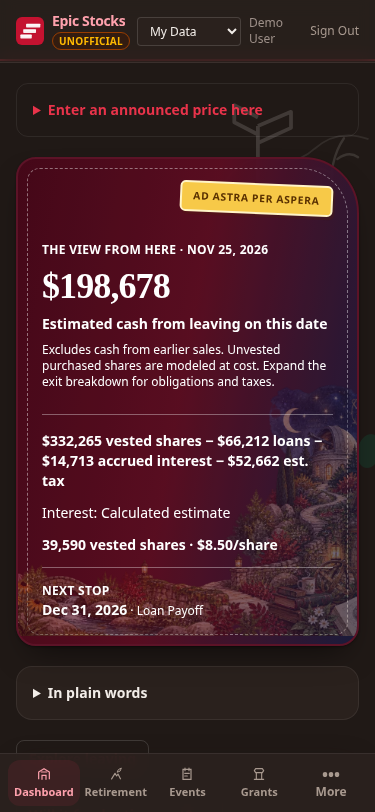
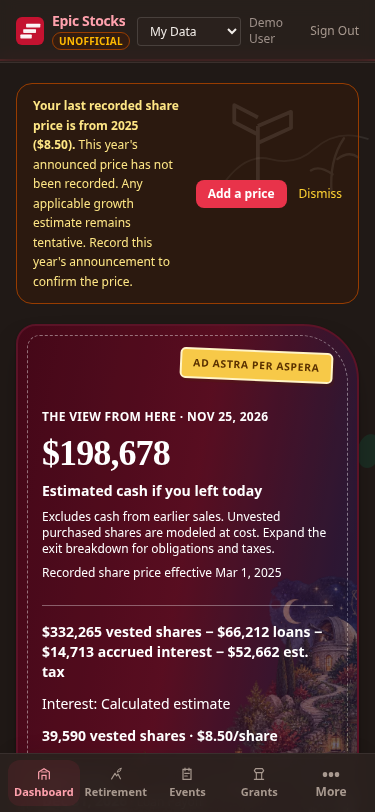
Keep dated debt and fallback values visible on dashboard

diff --git a/frontend/src/app/pages/Dashboard.tsx b/frontend/src/app/pages/Dashboard.tsx
@@ -372,7 +372,9 @@ export default function Dashboard() {
   const hasPrice = cv != null && cv.current_price !== null
   const hasPastRecords = events?.some(e => e.event_type !== 'Share Price' && e.date < `${today.slice(0, 4)}-01-01`)
   const totalValue = cv?.total_stock_value ?? null
+  const outstandingPrincipal = snapshot?.outstanding_loan_balance ?? cv?.total_loan_principal ?? 0
   const datedExit = exitPreview && exitPreview !== 'loading' && exitPreview.date === cardDate ? exitPreview : null
+  const showExitFigure = showExitPreview && (datedExit !== null || exitPreview === 'loading')
 
   return (
     <div className="campus-dashboard space-y-5 sm:space-y-6">
@@ -405,10 +407,10 @@ export default function Dashboard() {
             <div>
               <Eyebrow className="text-white">The view from here · {fmtFullDate(cardDate)}</Eyebrow>
               <p className="mt-2 font-serif text-4xl font-semibold tabular-nums tracking-tight sm:text-6xl">
-                {!hasPrice ? `${fmtNum(cv.total_shares)} shares` : showExitPreview ? (datedExit?.liquidation_net_cash == null ? '—' : fmt$(datedExit.liquidation_net_cash)) : (totalValue === null ? '—' : fmt$(totalValue))}
+                {!hasPrice ? `${fmtNum(cv.total_shares)} shares` : showExitFigure ? (datedExit?.liquidation_net_cash == null ? '—' : fmt$(datedExit.liquidation_net_cash)) : (totalValue === null ? '—' : fmt$(totalValue))}
               </p>
-              <p className="mt-2 text-sm font-semibold text-white">{!hasPrice ? 'Vested shares' : showExitPreview ? exitCashLabel(cardDate === today) : stockValueLabel}</p>
-              {hasPrice && showExitPreview && <p className="mt-2 text-xs text-white">{exitPreview === 'loading' ? 'Calculating exit…' : datedExit ? 'Excludes cash from earlier sales. Unvested purchased shares are modeled at cost. Expand the exit breakdown for obligations and taxes.' : 'Exit estimate unavailable. Stock holdings are shown below.'}</p>}
+              <p className="mt-2 text-sm font-semibold text-white">{!hasPrice ? 'Vested shares' : showExitFigure ? exitCashLabel(cardDate === today) : stockValueLabel}</p>
+              {hasPrice && showExitPreview && <p className="mt-2 text-xs text-white">{exitPreview === 'loading' ? 'Calculating exit…' : datedExit ? 'Excludes cash from earlier sales. Unvested purchased shares are modeled at cost. Expand the exit breakdown for obligations and taxes.' : 'Estimated exit cash is unavailable for this date.'}</p>}
 
               {hasPrice && <p className="mt-2 text-xs text-white">{sharePriceBasis(datedExit?.price_effective_date ?? snapshot?.price_effective_date,
                 datedExit?.price_is_estimate ?? cv.price_is_estimate)}</p>}
@@ -428,6 +430,16 @@ export default function Dashboard() {
                   {totalValue === null ? 'Stock value needs a share price' : cv.net_equity != null && `${fmt$(cv.net_equity)} stock equity before exit taxes`}
                 </>}
               </p>
+              {!(showExitPreview && datedExit) && (outstandingPrincipal > 0 || cv.accrued_unbooked_interest > 0) && (
+                <dl className="space-y-1 text-xs text-white">
+                  {outstandingPrincipal > 0 && <div className="flex justify-between gap-3">
+                    <dt>Outstanding loan principal</dt><dd className="font-semibold tabular-nums">{fmt$(outstandingPrincipal)}</dd>
+                  </div>}
+                  {cv.accrued_unbooked_interest > 0 && <div className="flex justify-between gap-3">
+                    <dt>Accrued interest</dt><dd className="font-semibold tabular-nums">{fmt$(cv.accrued_unbooked_interest)}</dd>
+                  </div>}
+                </dl>
+              )}
               {(activeLoans?.length ?? 0) > 0 && cv.interest_status && <p className="text-sm text-white">Interest: {cv.interest_status}</p>}
               <p className="font-semibold tabular-nums">
                 {fmtNum(cv.total_shares)} vested shares · {cv.current_price === null ? 'Price not entered' : `${fmtPrice(cv.current_price)}/share`}

diff --git a/frontend/e2e/dashboard-draw-date.spec.ts b/frontend/e2e/dashboard-draw-date.spec.ts
@@ -24,8 +24,12 @@ test('dashboard excludes a same-year future draw and loads tips with multiple lo
   const tipsResponse = page.waitForResponse(r => r.url().endsWith('/api/tips'))
   await page.reload()
   expect((await tipsResponse).status()).toBe(200)
-  await expect(page.getByText('$100,000 in shares − $10,000 loans')).toBeVisible()
+  const hero = page.locator('.campus-hero')
+  await expect(hero).toContainText('Stock value before loans and taxes')
+  await expect(hero).toContainText('$100,000')
+  const principal = hero.getByText('Outstanding loan principal', {exact: true}).locator('..')
+  await expect(principal).toContainText('$10,000')
   await page.locator('input[type="date"]').first().fill('2026-11-30')
-  await expect(page.getByText('$100,000 in shares − $30,000 loans')).toBeVisible()
+  await expect(principal).toContainText('$30,000')
   await expect(page.getByText(/not supported between instances/)).toBeHidden()
 })

diff --git a/frontend/e2e/interest-checkpoints.spec.ts b/frontend/e2e/interest-checkpoints.spec.ts
@@ -21,8 +21,9 @@ test('statement cutoff anchors interest without rewriting earlier dates', async 
   await page.reload()
   await page.locator('input[type="date"]').first().fill('2025-11-15')
   await expect(page.getByText('Interest: Reconciled through 2025-11-01; estimated afterward')).toBeVisible()
-  await expect(page.getByText(/− \$364 accrued interest/)).toBeVisible()
+  const accruedInterest = page.locator('.campus-hero').getByText('Accrued interest', {exact: true}).locator('..')
+  await expect(accruedInterest).toContainText('$364')
   await page.locator('input[type="date"]').first().fill('2025-10-01')
   await expect(page.getByText('Interest: Calculated estimate')).toBeVisible()
-  await expect(page.getByText(/− \$273 accrued interest/)).toBeVisible()
+  await expect(accruedInterest).toContainText('$273')
 })

diff --git a/frontend/src/app/pages/Dashboard.types.ts b/frontend/src/app/pages/Dashboard.types.ts
@@ -44,6 +44,7 @@ export interface Breakdowns {
 }
 export interface DashboardSnapshot extends DashboardData {
   as_of: string
+  outstanding_loan_balance?: number
   cards: CardValues
   grant_holdings: GrantHolding[]
   active_loans: ActiveLoan[]
